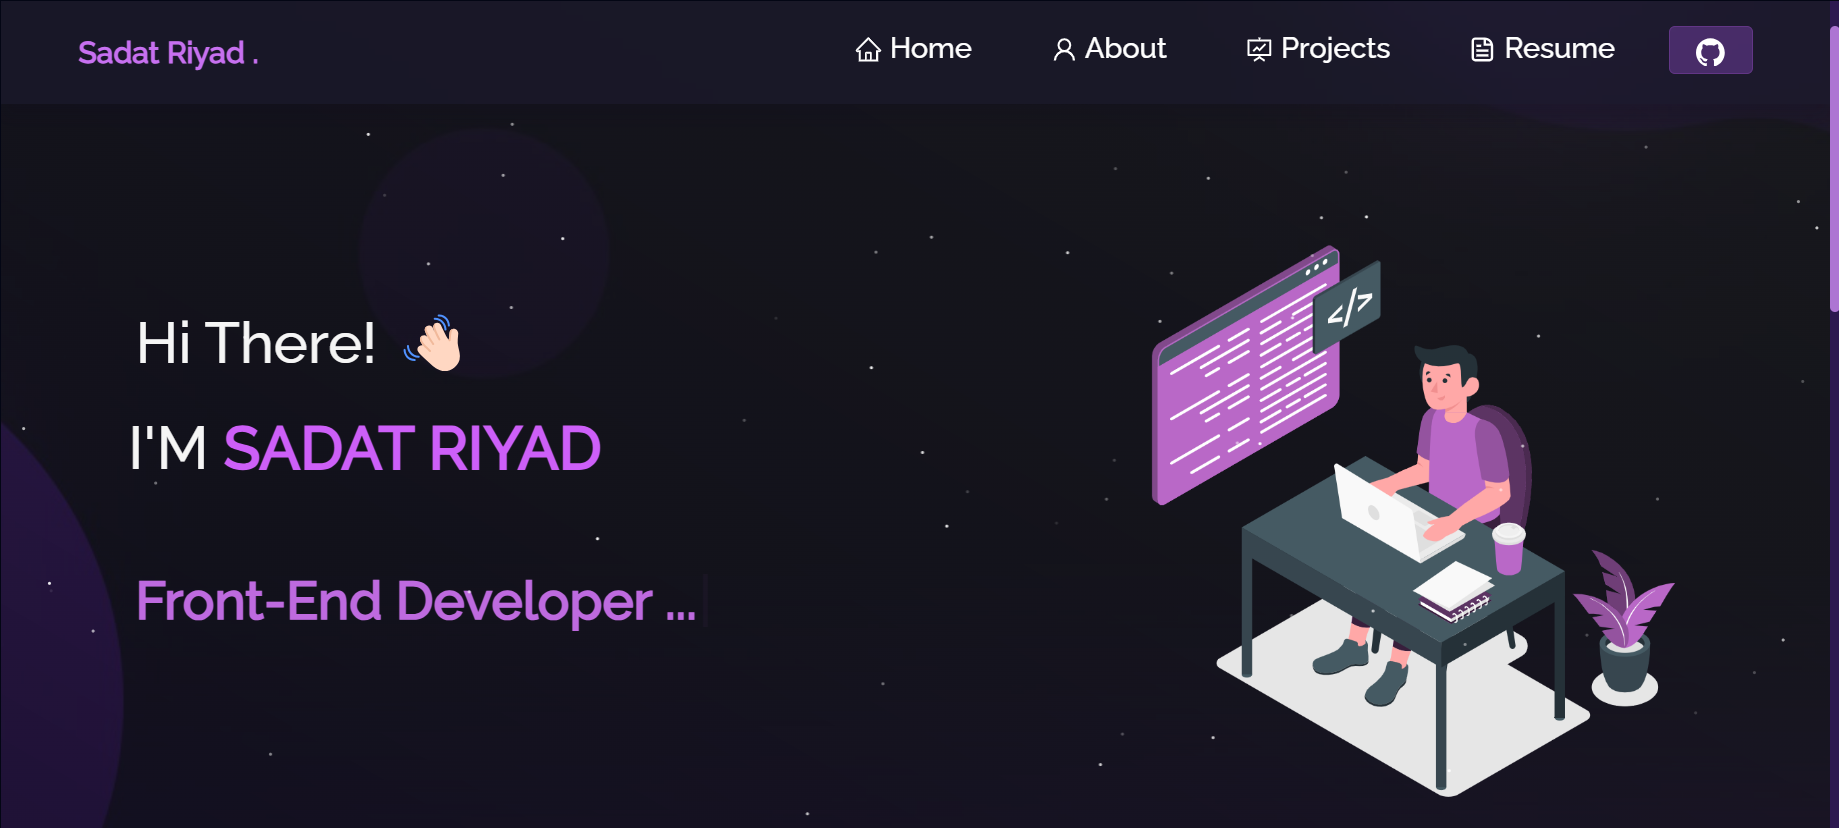
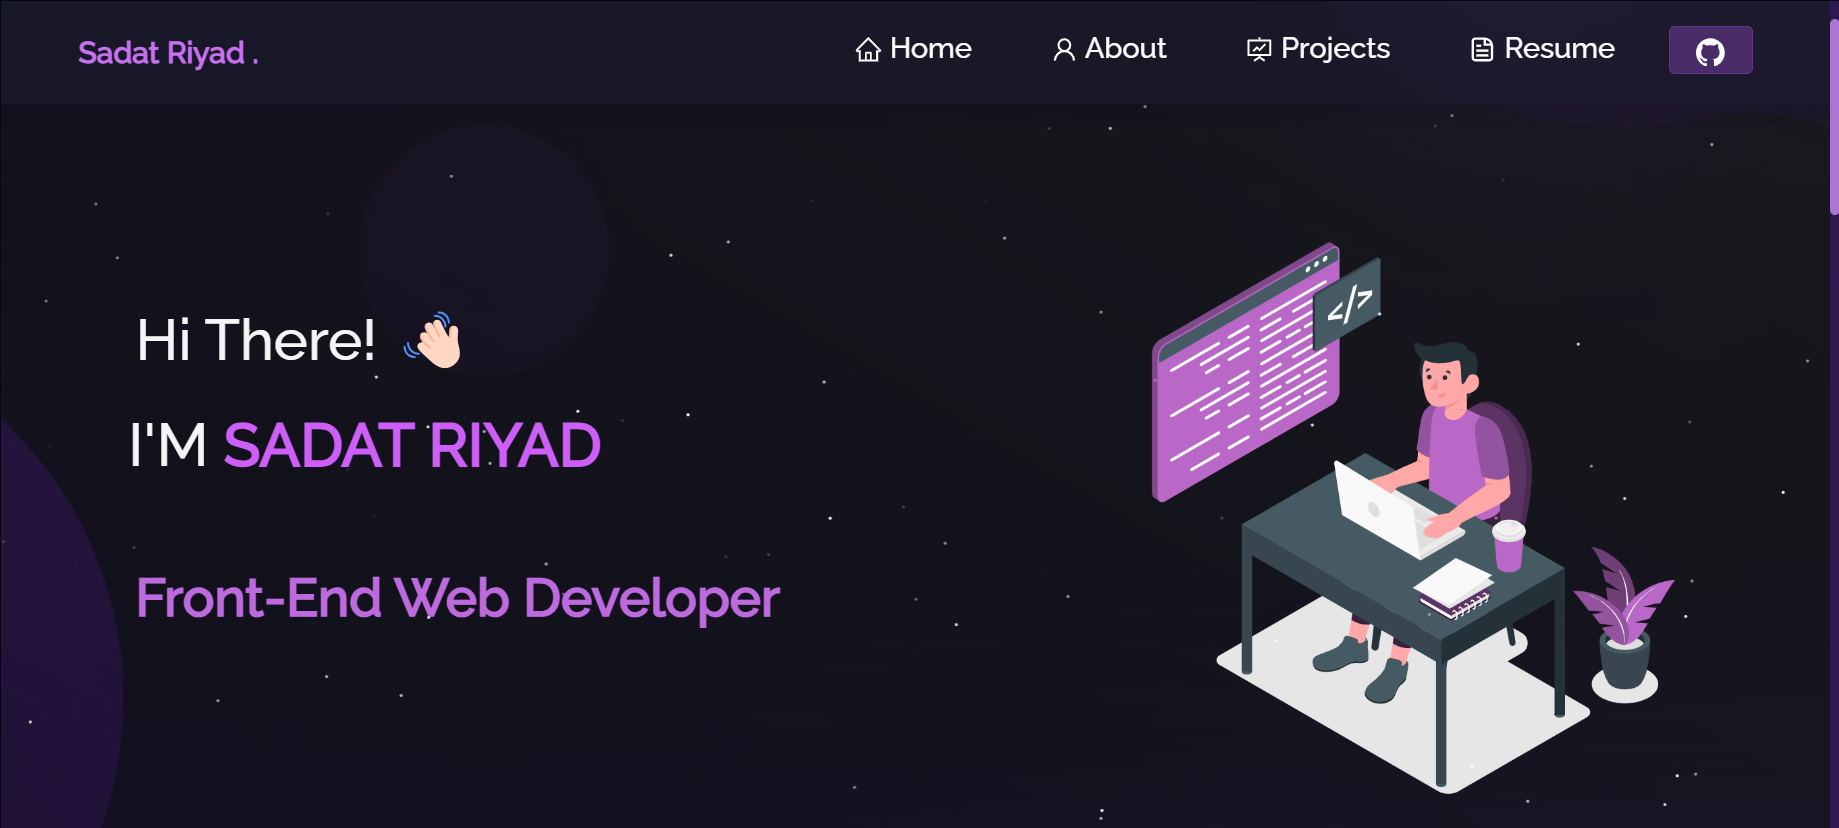
about me update

diff --git a/src/components/Home/Home2.js b/src/components/Home/Home2.js
@@ -1,13 +1,14 @@
 import React from "react";
 import { Container, Row, Col } from "react-bootstrap";
-import myImg from "../../Assets/avatar.svg";
+import myImg from "../../Assets/aa.jpg";
 import Tilt from "react-parallax-tilt";
 import {
   AiFillGithub,
   AiOutlineTwitter,
   AiFillInstagram,
+  AiFillMail,
 } from "react-icons/ai";
-import { FaLinkedinIn } from "react-icons/fa";
+import { FaFacebook, FaLinkedinIn } from "react-icons/fa";
 
 function Home2() {
   return (
@@ -19,27 +20,27 @@ function Home2() {
               LET ME <span className="purple"> INTRODUCE </span> MYSELF
             </h1>
             <p className="home-about-body">
+              Assalamu Alaikum,<br/> I'm <b className="purple">Sadat Riyad.</b> 👋🏻
+            </p>
+            <p className="home-about-body">
+              I'm a <b className="purple">Front-End Web Developer</b> with a passion for developing
+              scalable web applications and products. I have experience working
+              with modern technologies and frameworks like <i><b className="purple">React , Node.js ,
+              Express.js , and MongoDB .</b></i>
+              <br />
+              <br />I am passionate about coding and have learned various
+              technologies over the years. My journey started with <b className="purple">C</b> and <b className="purple">C++ </b>
+              programming.
+              Currently, I'm exploring Backend Development and diving deeper
+              into the <i><b className="purple">MERN stack .</b></i>
+            </p>
+            <p className="home-about-body">
               I fell in love with programming and I have at least learnt
-              something, I think… 🤷♂
-              <br />
-              <br />I am fluent in classics like
-              <i>
-                <b className="purple"> C++, Javascript and Go. </b>
-              </i>
-              <br />
-              <br />
-              My field of Interest's are building new &nbsp;
-              <i>
-                <b className="purple">Web Technologies and Products </b> and
-                also in areas related to{" "}
-                <b className="purple">
-                  Blockchain.
-                </b>
-              </i>
-              <br />
-              <br />
-              Whenever possible, I also apply my passion for developing products
-              with <b className="purple">Node.js</b> and
+              something, I think… 🤷♂ 
+              <br/>
+              <br/>
+              Whenever possible, I also apply my passion
+              for developing products with <b className="purple">Node.js</b> and
               <i>
                 <b className="purple">
                   {" "}
@@ -48,13 +49,31 @@ function Home2() {
               </i>
               &nbsp; like
               <i>
-                <b className="purple"> React.js and Next.js</b>
+                <b className="purple"> React.js .</b>
               </i>
+              <br />
+              <br />
+              I am always looking for opportunities to work on projects that
+              challenge me and allow me to learn new things. I am a quick
+              learner and a team player who loves to work in a collaborative
+              environment. <br/>
+              I'm currently looking for <b className="purple">Remote Internships</b> and <b className="purple">Job opportunities</b> in the
+              field of <b className="purple">Web Development. </b><br/> <br/>
+              <i>
+                <b className="purple">
+                  {" "}
+                  Feel free to reach out to me if you have any opportunities for
+                  me.
+                </b>
+              </i>
+            </p>
+            <p className="home-about-body">
+              
             </p>
           </Col>
           <Col md={4} className="myAvtar">
             <Tilt>
-              <img src={myImg} className="img-fluid" alt="avatar" />
+              <img src={myImg} className="img-fluid myImg" alt="avatar" />
             </Tilt>
           </Col>
         </Row>
@@ -67,7 +86,18 @@ function Home2() {
             <ul className="home-about-social-links">
               <li className="social-icons">
                 <a
-                  href="https://github.com/soumyajit4419"
+                  href="mailto:
+                  sadatriyad.dev@gmail.com"
+                  target="_blank"
+                  rel="noreferrer"
+                  className="icon-colour home-social-icons"
+                >
+                  <AiFillMail />
+                </a>
+              </li>
+              <li className="social-icons">
+                <a
+                  href="https://github.com/SadatRiyad"
                   target="_blank"
                   rel="noreferrer"
                   className="icon-colour  home-social-icons"
@@ -77,7 +107,7 @@ function Home2() {
               </li>
               <li className="social-icons">
                 <a
-                  href="https://twitter.com/Soumyajit4419"
+                  href="https://twitter.com/SadatRiyad"
                   target="_blank"
                   rel="noreferrer"
                   className="icon-colour  home-social-icons"
@@ -87,7 +117,7 @@ function Home2() {
               </li>
               <li className="social-icons">
                 <a
-                  href="https://www.linkedin.com/in/soumyajit4419/"
+                  href="https://www.linkedin.com/in/SadatRiyad/"
                   target="_blank"
                   rel="noreferrer"
                   className="icon-colour  home-social-icons"
@@ -97,7 +127,17 @@ function Home2() {
               </li>
               <li className="social-icons">
                 <a
-                  href="https://www.instagram.com/soumyajit4419"
+                  href="https://www.facebook.com/SadatRiyad.dev"
+                  target="_blank"
+                  rel="noreferrer"
+                  className="icon-colour home-social-icons"
+                >
+                  <FaFacebook />
+                </a>
+              </li>
+              <li className="social-icons">
+                <a
+                  href="https://www.instagram.com/SadatRiyad.dev"
                   target="_blank"
                   rel="noreferrer"
                   className="icon-colour home-social-icons"

diff --git a/src/style.css b/src/style.css
@@ -307,7 +307,7 @@ button:focus {
 
 .myAvtar {
   justify-content: center !important;
-  padding-top: 9em !important;
+  padding-top: 13em !important;
 }
 
 @media (max-width: 767px) {
@@ -315,6 +315,10 @@ button:focus {
     padding-top: 2em !important;
     padding-bottom: 2em !important;
   }
+}
+
+.myImg{
+  border: 8px solid purple;
 }
 
 .home-about-section {
@@ -331,7 +335,7 @@ button:focus {
 }
 
 .home-about-body {
-  padding-top: 50px;
+  padding-top: 30px;
   font-size: 1.2em !important;
   text-align: left;
 }
@@ -339,6 +343,7 @@ button:focus {
 .home-about-social {
   text-align: center !important;
   padding-top: 25px;
+  margin-bottom: 10px;
   color: white !important;
 }
 
@@ -355,6 +360,7 @@ button:focus {
   display: inline-block !important;
   width: 40px !important;
   height: 40px !important;
+  margin-bottom: 15px;
   text-align: center !important;
   font-size: 1.2em !important;
   line-height: 2em !important;

diff --git a/src/components/Home/Type.js b/src/components/Home/Type.js
@@ -6,8 +6,8 @@ function Type() {
     <Typewriter
       options={{
         strings: [
-          "Front-End Developer ...",
-          "Freelancer ...",
+          "Front-End Web Developer",
+          "Freelancer",
           "MERN Stack Developer",
           "Open Source Contributor",
         ],
